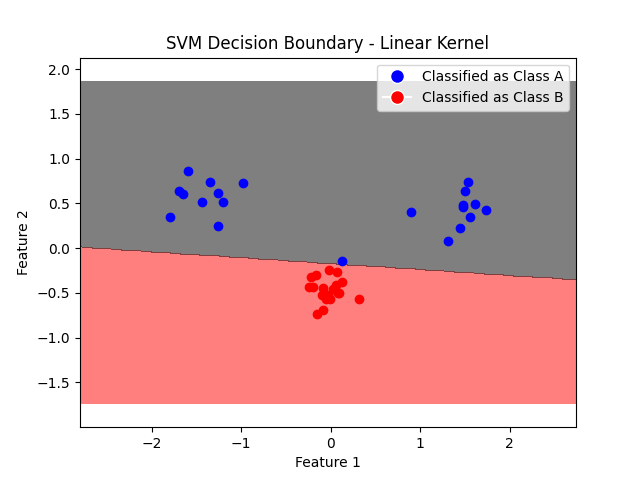
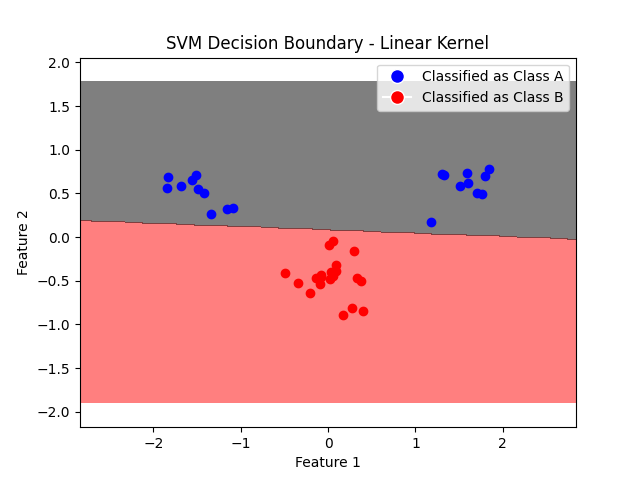
Finsihed the SVM Model

diff --git a/svm/SVM.py b/svm/SVM.py
@@ -5,6 +5,13 @@ from generate_training_samples import generate_training_data
 import matplotlib.pyplot as plt
 from matplotlib.lines import Line2D
 
+
+"""
+- Bias: Error due to a model's oversimplification, leading to underfitting.
+
+- Variance: Error due to a model's sensitivity to noise or over-complexity, leading to overfitting.
+"""
+
 class SupportVectorMachine:
     """
     ### A class for a Support Vector Machine.
@@ -12,7 +19,15 @@ class SupportVectorMachine:
     - feature_vectors: Nested NumPy Arrays with the features of a point.
     - label_vector: A NumPy Array of the labels of each point, in the same order.
     - kernel: The chosen kernel function. 'linear' | 'polynomial' | 'rbf'
-    - C: the regularization parameter
+    - C: the regularization parameter.
+        Small C (Loose Constraint):
+            When C is a small positive value (approaching zero), the SVM optimization problem allows for a wider margin. 
+            This is because the optimization process focuses more on maximizing the margin and is less concerned with the classification errors. 
+            In this case, the SVM might tolerate some misclassification in order to achieve a larger margin.
+        Large C (Tight Constraint):
+            When C is a large positive value, the optimization problem enforces a tighter constraint on the Lagrange multipliers. 
+            This means that the SVM prioritizes correct classification of data points, and the margin may be smaller. 
+            In other words, a larger C leads to a smaller margin but a stronger emphasis on correctly classifying the training data.
     """
     def __init__(self, feature_vectors, label_vector, kernel='linear', C=1.0) -> None:
         self.feature_vectors: np.ndarray[np.ndarray] = feature_vectors
@@ -24,7 +39,13 @@ class SupportVectorMachine:
         self.non_zeroes = None
 
 
-    def linear_kernel(self, x1, x2):
+    ### NOTE
+    ### The kernel “trick” is that kernel methods represent the data only through a set of pairwise similarity 
+    # comparisons between the original data observations x (with the original coordinates in the lower dimensional space), 
+    # instead of explicitly applying the transformations ϕ(x) and representing the data by these transformed coordinates 
+    # in the higher dimensional feature space.
+
+    def linear_kernel(self, x1: np.ndarray, x2: np.ndarray):
         """
         ### Compute the linear kernel between two data points. 
         #### Parameters:
@@ -33,26 +54,52 @@ class SupportVectorMachine:
         - Scalar product. This results in a linear separation.
         - The scalar product-like similarity measure.
         """
-        return np.dot(x1, x2)
+        return np.dot(x1.T, x2)
 
 
-    def polynomial_kernel(self, x1, x2, degree=3):
+    def polynomial_kernel(self, x1: np.ndarray, x2: np.ndarray, degree=4):
         """
         ### Compute the polynomial kernel between two data points.
+        Maps the data into a higher dimensional space by the degree variable.
         Allows for curved decision boundaries.
+
+        Lower-degree polynomials have a lower model complexity, which tends to underfit the data (high bias).
+        Higher-degree polynomials have a higher model complexity, which can capture complex patterns but may overfit the data (high variance).
+
         #### Parameters:
         - x1, x2: Numpy Arrays representing data points.
-        - degree: Degree of the polynomial kernel (default=2). degree = 2 will give quadratic shapes.
+        - degree: Degree of the polynomial kernel (default=2). 
+        #### degree = 1 will give a linear boundary, while degree=2 will give quadratic shapes.
         #### Returns:
         - The scalar product-like similarity measure.
         """
-        return (np.dot(x1, x2) + 1) ** degree
+        return (np.dot(x1.T, x2) + 1) ** degree
 
 
-    def rbf_kernel(self, x1, x2, sigma=3.0):
+    def rbf_kernel(self, x1, x2, sigma=1):
         """
         ### Compute the RBF kernel (Gaussian kernel) between two data points.
+
         Uses the euclidian distance between two datapoints. Often very good boundaries.
+        "sigma" controls the shape of the RBF kernel. 
+            - A smaller "sigma" makes the kernel narrower, 
+            - A larger "sigma" makes it wider.
+            - When "sigma" is small, the kernel assigns high similarity (large kernel values) 
+            to data points that are close.
+            - When "sigma" is large, the kernel assigns high similarity to data points 
+            that are further apart.
+
+        When the kernel is narrower (smaller "sigma"), the decision boundary tends to be more 
+        flexible and can capture local patterns, including smaller clusters. 
+        This flexibility can lead to a more complex, wiggly boundary that fits the training data closely.
+
+        Smaller "sigma" (narrow kernel) increases model variance, making the decision boundary 
+        more sensitive to the training data. This can lead to overfitting.
+        
+        Larger "sigma" (wide kernel) reduces model variance, making the decision boundary 
+        smoother and more robust. This can reduce the risk of overfitting but might lead to 
+        underfitting if the data is complex.
+
         #### Parameters:
         - x1, x2: Numpy Arrays representing data points.
         - sigma: Parameter controlling the kernel's width and the smothness of the boundary (default=1.0)
@@ -70,6 +117,9 @@ class SupportVectorMachine:
     def create_kernel_matrix(self) -> np.ndarray:
         """
         ### Compute the kernel matrix, K
+        #### Inner Products: The kernel matrix stores the pairwise inner products between data points. 
+        #### Each element of the matrix corresponds to the inner product (dot product) between two feature vectors. 
+        #### These inner products represent the similarity or distance between data points, allowing the SVM to measure the relationships between the data.
         #### Returns: 
             - the kernel matrix (N x N)
         """
@@ -91,6 +141,10 @@ class SupportVectorMachine:
     def objective(self, alpha: np.ndarray):
         """
         ### Compute the objective function for the dual SVM problem.
+        #### A mathematical expression that the SVM seeks to optimize during the training process. 
+        #### The primary goal of the objective function is to find the optimal decision boundary (hyperplane) 
+        #### that maximizes the margin between different classes of data points while minimizing classification errors.
+        #### The dual form of the problem is to find the values alpha_i which minimizes the equation
         #### Returns:
         - The value of the objective function.
         """
@@ -99,7 +153,7 @@ class SupportVectorMachine:
         weighted_kernel_matrix = np.outer(alpha * self.label_vector, alpha * self.label_vector) * self.kernel_matrix
 
         # Calculate the objective value
-        obj_value = np.sum(weighted_kernel_matrix) - np.sum(alpha)
+        obj_value = (0.5 * np.sum(weighted_kernel_matrix)) - np.sum(alpha)
 
         return obj_value
 
@@ -142,7 +196,20 @@ class SupportVectorMachine:
         
 
     def find_support_vectors(self):
-        """ ### Extract support-vectors """
+        """ 
+            ### Extract support-vectors 
+            When the alpha values for data points are non-zero, it means that they lie exactly on the margin or very close to it. 
+
+            The margin is defined as the space between the two parallel hyperplanes that are closest to the 
+            decision boundary and still correctly classify all training data.
+            The width of the margin is crucial in SVMs. A larger margin indicates a more confident separation of classes, 
+            while a smaller margin may indicate that the separation is less confident.
+
+            These data points effectively "support" the decision boundary by helping determine its position.
+            The location of the decision boundary is given by the weights (alpha) and the bias (b)
+            The margin is a region around the decision boundary that is free from data points. 
+           
+        """
         limit = 0.00001
         self.non_zeroes = [
             {
@@ -155,7 +222,10 @@ class SupportVectorMachine:
 
     def calculate_bias(self) -> None:
         """
-        ### Calculate the threshold value 'b' using the support vectors.
+        ### Calculate the threshold value 'b' using the support vectors in order to define the location of the decision boundary.
+        #### The bias term, "b," helps set the threshold for the decision boundary. 
+        #### It determines the distance of the decision boundary from the origin.
+
         #### The bias term is calculated using the support vectors like so:
         - b = ∑ alpha[i] * target[i] * kernel_matrix[[support_vector[i], x[i]]] - target[support_vector]
         """
@@ -188,6 +258,20 @@ class SupportVectorMachine:
     def indicator(self, point: np.ndarray):
         """
         ### Use this function classify a new point.
+
+        #### Description:
+            The decision value, often denoted as "f(x)" or "f(point)" in mathematical representations, 
+            is calculated as the weighted sum of kernel values between the new point and the support vectors:
+            - decision_value = Σ [alpha_i * target_i * K(point, feature_i)] - b
+
+            The decision value represents the point's position relative to the decision boundary:
+                - If decision_value is greater than or equal to 0, it means the point is on or 
+                    beyond the decision boundary's positive side. 
+                    In this case, the point is classified as the positive class (usually +1).
+
+                - If decision_value is less than 0, it means the point is on the negative side of the 
+                    decision boundary, and it is classified as the negative class (usually -1).
+
         #### Parameters:
         - point: NumPy feature array [f1, f2]
         #### Returns:

diff --git a/svm/main.py b/svm/main.py
@@ -1,5 +1,6 @@
 from SVM import SupportVectorMachine
 from generate_training_samples import generate_training_data
+import numpy as np
 
 feature_vectors, label_vector = generate_training_data(plot_data=True)
 for kernel in ['linear', 'polynomial', 'rbf']:
@@ -7,7 +8,7 @@ for kernel in ['linear', 'polynomial', 'rbf']:
             feature_vectors=feature_vectors, 
             label_vector=label_vector, 
             kernel=kernel,
-            C=10
+            C=5
         )
     svm.train()
     svm.plot_decision_boundary()
